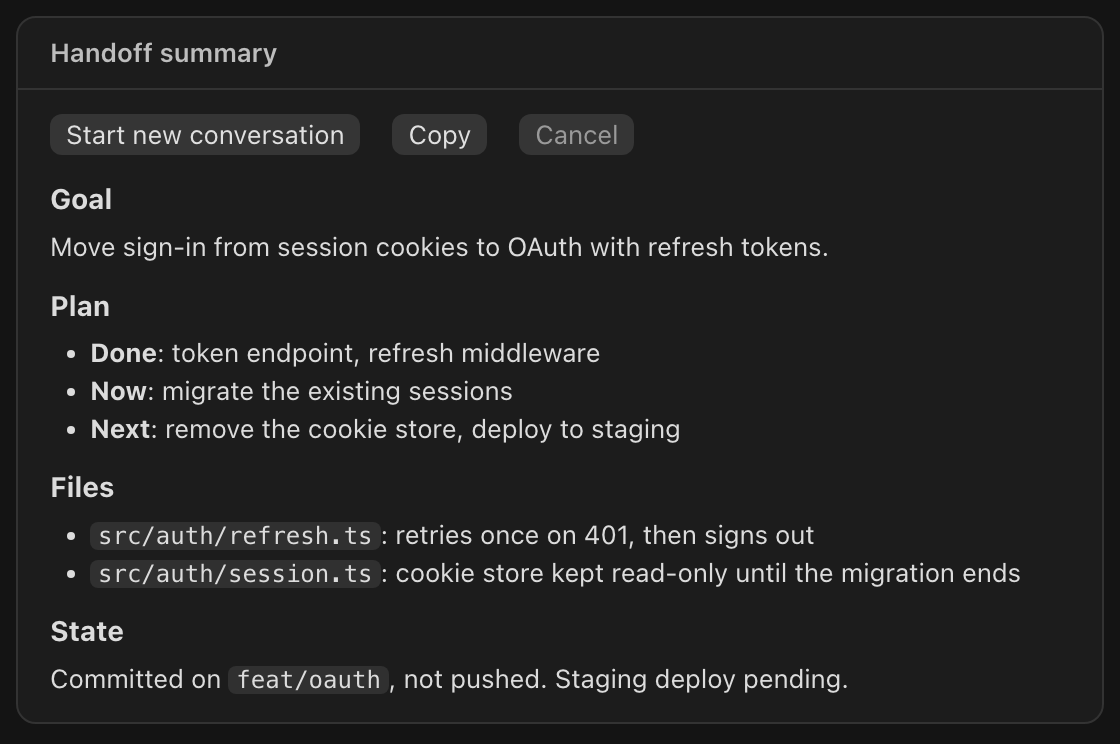
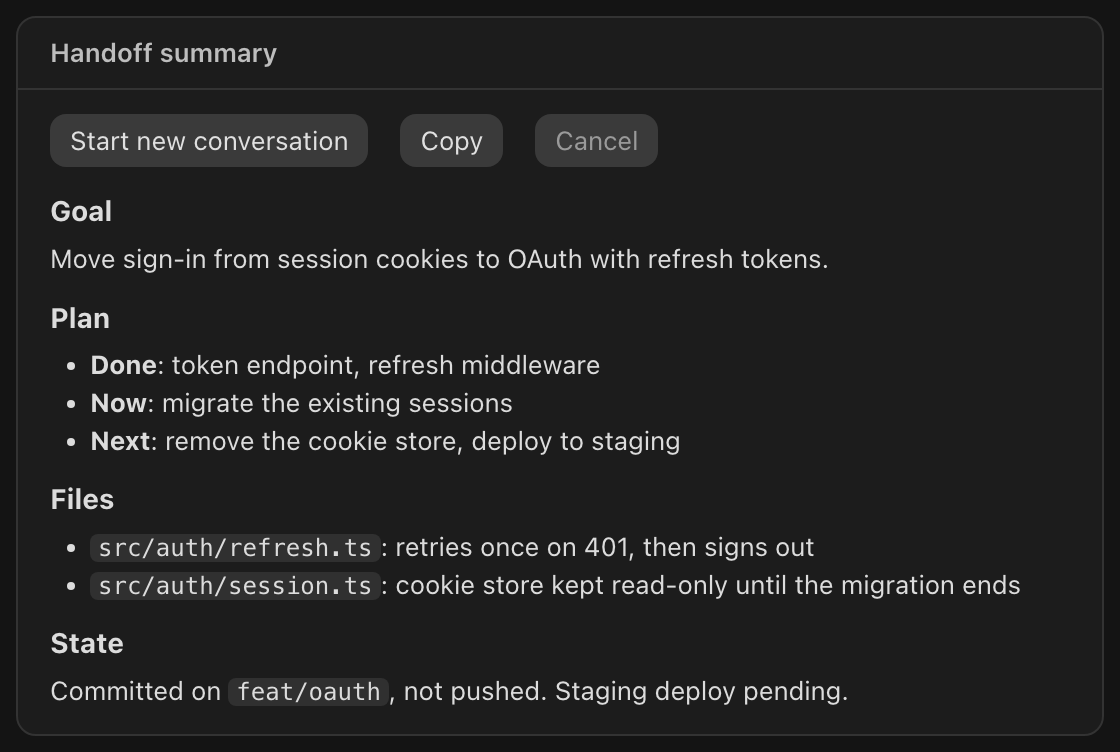
Screenshots: native-size buttons, keepwarm link without underline

diff --git a/docs/screenshots.ts b/docs/screenshots.ts
@@ -113,17 +113,17 @@ const STATES: Record<string, { state: State; height: number }> = {
       cache: { left: 41 * MIN, note: STRINGS.pingIn(duration(32 * MIN)) }, keepwarm: true },
   },
   'near-limit': {
-    height: 136,
+    height: 150,
     state: { context: 27, tokens: 268_000, fiveHour: 74, fiveReset: 52 * MIN, weekly: 33, weeklyReset: (4 * 24 + 2) * 60 * MIN,
       cache: { left: 55 * MIN, note: 'hit' }, keepwarm: false, extra: nearLimit('268k') },
   },
   handoff: {
-    height: 164,
+    height: 178,
     state: { context: 28, tokens: 281_000, fiveHour: 77, fiveReset: 44 * MIN, weekly: 34, weeklyReset: (4 * 24 + 1) * 60 * MIN,
       cache: { left: 58 * MIN, note: 'hit' }, keepwarm: false, extra: nearLimit('281k') + review },
   },
   minimized: {
-    height: 52,
+    height: 64,
     state: { context: 31, tokens: 62_000, fiveHour: 53, fiveReset: 93 * MIN, weekly: 16, weeklyReset: (4 * 24 + 14) * 60 * MIN,
       cache: { left: 52 * MIN, note: 'hit' }, keepwarm: false, isMinimized: true },
   },
@@ -139,17 +139,19 @@ const CSS = `
 body{background:#141414;padding:8px;font:13px/1.45 -apple-system,BlinkMacSystemFont,"SF Pro Text",system-ui,sans-serif;color:#e8e8e8;-webkit-font-smoothing:antialiased}
 .band{background:#232323;border-radius:12px;padding:12px 8px 12px 16px}
 .cards{display:flex;gap:24px}
-.band.slim{padding:6px 8px 6px 16px}
+.band.slim{padding:8px 8px 8px 16px}
 .cards.center{align-items:center}
 .mini{flex:1 1 0;min-width:0;display:flex}
-.side{display:flex;flex-direction:column;justify-content:space-between;align-items:center;gap:8px}
+.side{display:flex;flex-direction:column;justify-content:space-between;align-items:center;gap:4px}
+.side .btn,.slim .btn{width:28px;height:28px;padding:0;display:flex;align-items:center;justify-content:center;font-size:16px}
 .kw{white-space:nowrap}
-.kwlink{color:#6ea8fe;text-decoration:underline;text-underline-offset:2px}
+.kwlink{color:#5ea6ee}
 .card{flex:1 1 0;min-width:0;display:flex;flex-direction:column;gap:3px}
 .row{display:flex;justify-content:space-between;align-items:center;gap:8px;min-height:22px}
 .row b{font-size:14px}
 .note{color:#8f8f8f;white-space:nowrap;overflow:hidden;text-overflow:ellipsis}
-.btn{background:#353535;border-radius:6px;padding:1px 8px;color:#e0e0e0;white-space:nowrap}
+/* Sized as the desktop app's native buttons. */
+.btn{background:#3a3a3a;border-radius:8px;padding:4px 10px;color:#e0e0e0;white-space:nowrap}
 .btn.dim{color:#9a9a9a}
 .line{display:flex;align-items:center;gap:16px;margin-top:12px}
 .line.left{gap:8px;margin-top:8px}
@@ -179,7 +181,7 @@ for (const [name, { state, height }] of Object.entries(STATES)) {
   console.log(`docs/${name}.png`)
 }
 
-const PANES: [string, string, number, number][] = [['handoff-pane', PANE, 560, 372], ['settings', SETTINGS, 640, 262]]
+const PANES: [string, string, number, number][] = [['handoff-pane', PANE, 560, 376], ['settings', SETTINGS, 640, 298]]
 for (const [name, body, width, height] of PANES) {
   const html = join(tmp, `${name}.html`)
   writeFileSync(html, `<!doctype html><meta charset="utf-8"><style>${CSS}</style><body>${body}</body>`)
